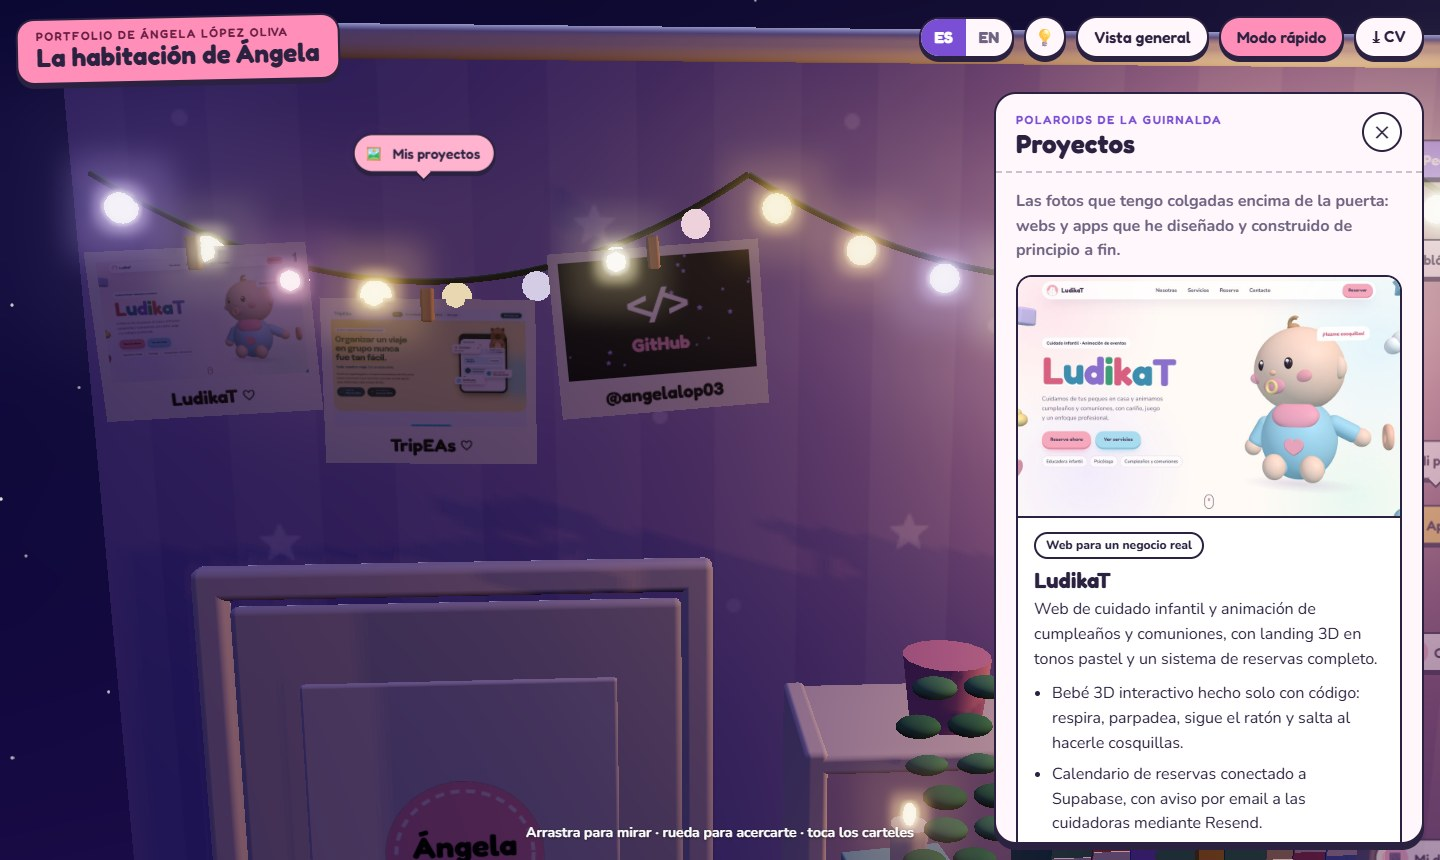
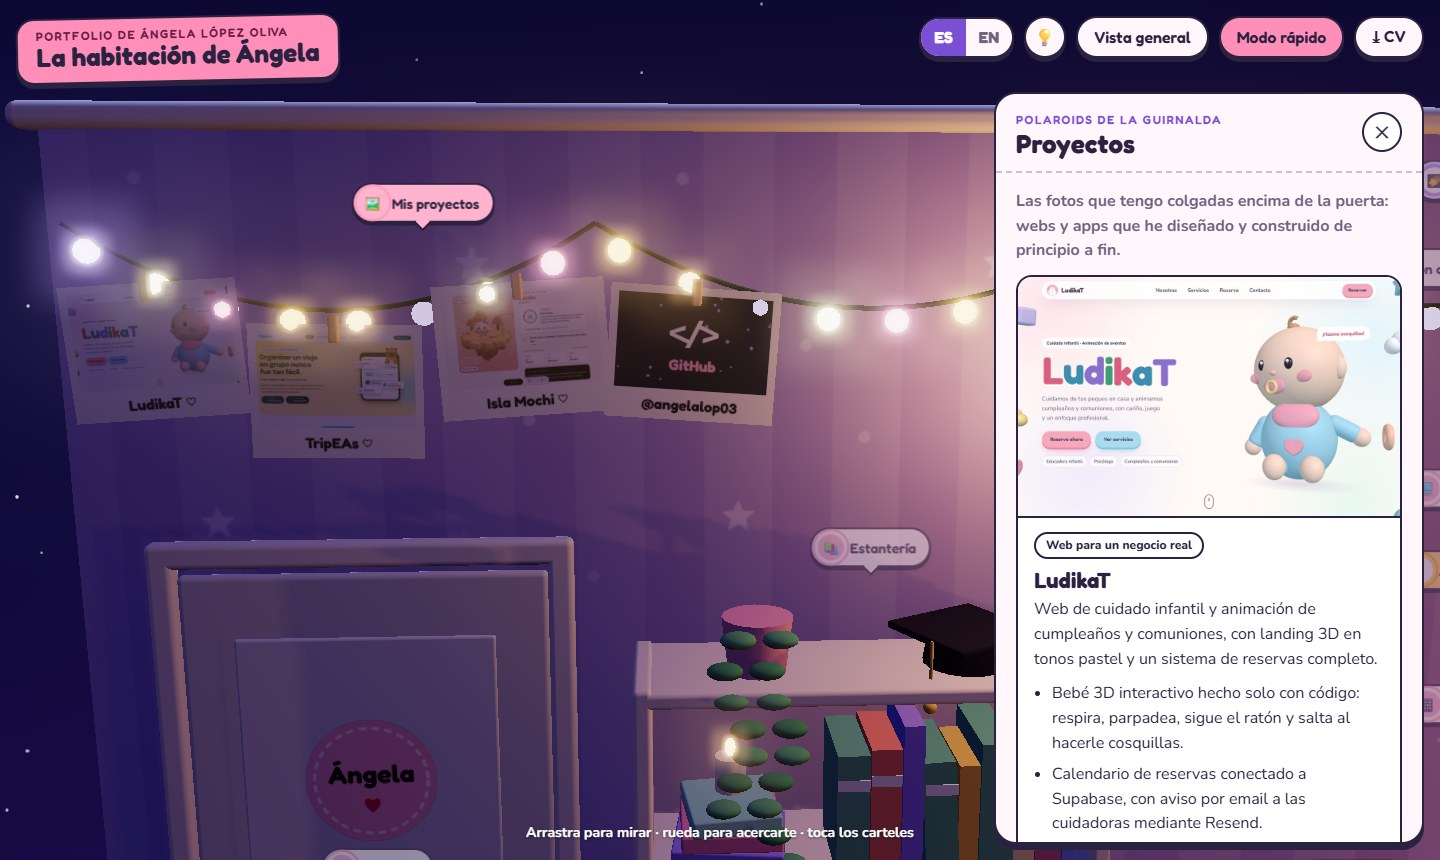
feat: add Isla Mochi (MochiTracker) to the room's projects
A fourth polaroid joins the fairy lights; the GitHub card moves to the
next run of lights, above the bookshelf. The projects panel, quick mode
and README list the new project.

diff --git a/main.js b/main.js
@@ -1403,7 +1403,11 @@ function buildPolaroids() {
   const g = new THREE.Group();
   scene.add(g);
   // cuelgan del tramo de guirnalda que va encima de la puerta
-  const garlandY = (z) => { const s = (z - 2.6) / 2.3; return 5.6 - 0.38 * 4 * s * (1 - s) - 0.03; };
+  const garlandY = (z) => {
+    const [a, b] = z >= 2.6 ? [2.6, 4.9] : [0.1, 2.6];
+    const s = (z - a) / (b - a);
+    return 5.6 - 0.38 * 4 * s * (1 - s) - 0.03;
+  };
   const cards = PROJECTS.map((p) => {
     const img = new Image();
     const tex = polaroidTex(`${p.name} ♡`, (c, x, y, w, h) => {
@@ -1429,12 +1433,12 @@ function buildPolaroids() {
     c.fillText('GitHub', x + w / 2, y + 152);
     c.textAlign = 'left';
   }));
-  const zs = [4.55, 3.75, 2.95]; // de izquierda a derecha, vistas desde la habitación
+  const zs = [4.55, 3.75, 2.95, 2.15]; // de izquierda a derecha, vistas desde la habitación
   cards.forEach((tex, i) => {
     const z = zs[i];
     const hang = new THREE.Group();
     hang.position.set(-4.88, garlandY(z), z);
-    hang.userData.tilt = [0.06, -0.04, 0.07][i];
+    hang.userData.tilt = [0.06, -0.04, 0.07, -0.05][i];
     g.add(hang);
     const photo = mesh(new THREE.PlaneGeometry(0.76, 0.6), new THREE.MeshStandardMaterial({ map: tex, roughness: 0.85 }), 0, -0.33, 0, hang);
     photo.rotation.y = Math.PI / 2;
@@ -1767,7 +1771,7 @@ function init3D() {
   register('contact', phone, V(-1.15, 1.42, -4.15), { pos: V(0.5, 3.1, -1.4), target: V(-1.25, 1.15, -4.15) }, '📱');
   register('lamp', lamp, V(-1.85, 2.38, -4.6), null, '💡', 'toggle');
   register('window', winGroup, V(WIN_CENTER.x, WIN.y1 + 0.75, -4.9), { pos: V(3.2, 3.3, 3.8), target: V(WIN_CENTER.x, 3.1, -5) }, '🌠', 'wish');
-  register('projects', buildPolaroids(), V(-4.9, 5.6, 3.75), { pos: V(-0.6, 4.5, 4.0), target: V(-4.5, 4.75, 3.75) }, '🖼');
+  register('projects', buildPolaroids(), V(-4.9, 5.6, 3.35), { pos: V(0.4, 4.5, 3.6), target: V(-4.5, 4.75, 3.35) }, '🖼');
   register('door', doorGroup, V(-4.9, 2.45, 3.7), null, '🐙');
   register('cat', cat, null, null, null);
   updateHotspotLabels();

diff --git a/content.js b/content.js
@@ -160,6 +160,33 @@ export const PROJECTS = [
       { label: { es: 'Código API', en: 'API code' }, url: 'https://github.com/angelalop03/TripEAs-backend' },
     ],
   },
+  {
+    id: 'mochi',
+    name: 'Isla Mochi',
+    image: 'assets/projects/mochi.jpg',
+    kind: { es: 'App web de salud (PWA)', en: 'Health web app (PWA)' },
+    summary: {
+      es: 'Una guía del ciclo menstrual contada como las estaciones de una pequeña isla: cómo te puedes sentir en cada fase y qué te puede ayudar, con Mochi como compañero.',
+      en: 'A menstrual-cycle guide told as the seasons of a tiny island: how you may feel in each phase and what can help, with Mochi as your companion.',
+    },
+    highlights: {
+      es: [
+        'Mochi y su isla en 3D hechos solo con código: cambian con cada estación, respiran, parpadean y tienen modo noche.',
+        'IA en la nube con Groq desde el servidor: consejos a medida y chat, con respuestas validadas y cupos diarios gratuitos.',
+        'Supabase con Row Level Security comprobada con tests, PWA instalable con notificaciones push e importación desde Clue.',
+      ],
+      en: [
+        'Mochi and its 3D island built purely in code: they change with each season, breathe, blink and have a night mode.',
+        'Server-side cloud AI with Groq: personalized tips and chat, with validated answers and free daily quotas.',
+        'Supabase with Row Level Security verified by tests, an installable PWA with push notifications, and import from Clue.',
+      ],
+    },
+    tags: ['React 19', 'TypeScript', 'React Three Fiber', 'Supabase', 'Groq', 'PWA', 'Vitest', 'Vercel'],
+    links: [
+      { label: { es: 'Ver la web', en: 'Visit site' }, url: 'https://isla-mochi.vercel.app/' },
+      { label: { es: 'Código', en: 'Code' }, url: 'https://github.com/angelalop03/MochiTracker' },
+    ],
+  },
 ];
 
 // Cada grupo de habilidades es una pegatina del portátil.

diff --git a/README.md b/README.md
@@ -16,7 +16,7 @@ Portfolio interactivo en 3D: una habitación de noche, flotando en un cielo estr
 | **📌 Tablón · Experiencia** | **📚 Estantería · Formación** |
 | ![Tablón de corcho con la experiencia profesional](docs/screenshots/tablon.jpg) | ![Estantería con la formación](docs/screenshots/estanteria.jpg) |
 | **🖼 Polaroids · Proyectos** | **🌠 Pedir un deseo (versión en inglés)** |
-| ![Polaroids de LudikaT y TripEAs colgadas de la guirnalda](docs/screenshots/proyectos.jpg) | ![Estrella fugaz cruzando la ventana](docs/screenshots/deseo.jpg) |
+| ![Polaroids de LudikaT, TripEAs e Isla Mochi colgadas de la guirnalda](docs/screenshots/proyectos.jpg) | ![Estrella fugaz cruzando la ventana](docs/screenshots/deseo.jpg) |
 | **⚡ Modo rápido, sin 3D** | **📱 Versión móvil, con Aelin dando la bienvenida** |
 | ![Modo rápido con todo el CV en una página](docs/screenshots/modo-rapido.jpg) | <p align="center"><img src="docs/screenshots/movil.jpg" alt="Versión móvil con Aelin como guía" width="220"></p> |
 
@@ -28,7 +28,7 @@ Portfolio interactivo en 3D: una habitación de noche, flotando en un cielo estr
 | 💻 Portátil del escritorio | Stack técnico (cada grupo es una pegatina) |
 | 📌 Tablón de corcho | Experiencia profesional (Airbus, Dedalus) |
 | 📚 Estantería | Formación, certificaciones e idiomas |
-| 🖼 Polaroids en la guirnalda | Proyectos: [LudikaT](https://ludika-t.vercel.app/) y [TripEAs](https://angelalop03.github.io/TripEAs-Web/) |
+| 🖼 Polaroids en la guirnalda | Proyectos: [LudikaT](https://ludika-t.vercel.app/), [TripEAs](https://angelalop03.github.io/TripEAs-Web/) e [Isla Mochi](https://isla-mochi.vercel.app/) |
 | 🚪 Puerta | Abre mi [GitHub](https://github.com/angelalop03) |
 | 📱 Móvil de la mesita | Contacto, LinkedIn, GitHub y CV |
 | 💡 Lámpara de la mesita | Se enciende y se apaga |
